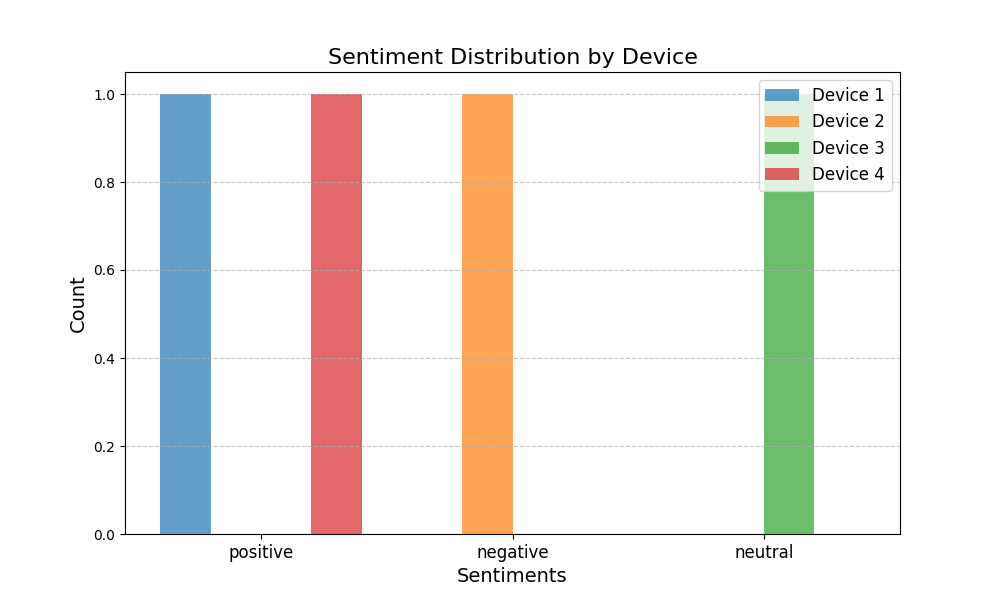
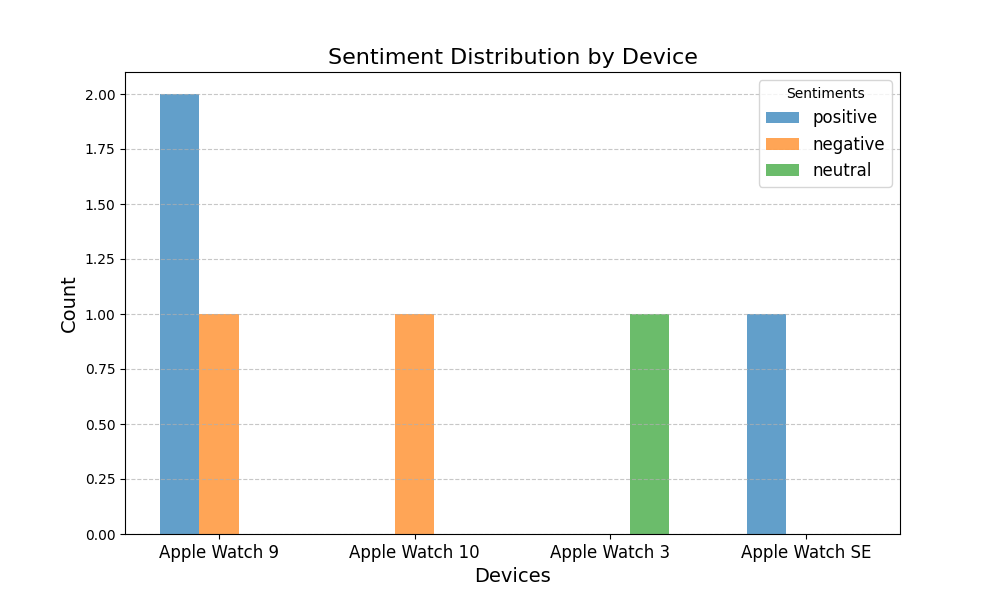
updating code for the graph, pushing new graph, adding readme file

diff --git a/Project3.py b/Project3.py
@@ -102,48 +102,48 @@ class HuggingFaceChat:
 
 def plot_sentiment_distribution(device_sentiments, output_path=None):
     """
-    Create a bar graph showing the distribution of sentiments.
+    Create a grouped bar graph showing the sentiment distribution across devices.
 
     Args:
-        sentiments (list): A list of sentiment labels (e.g., "positive", "negative", "neutral").
+        device_sentiments (dict): A dictionary where keys are device names and values are lists of sentiment labels.
         output_path (str, optional): Path to save the plot. If None, the plot is displayed.
     """
-    #Categories
+    # Sentiment categories
     categories = ["positive", "negative", "neutral"]
 
-    #Get data ready to plot
+    # Prepare data for plotting
     device_labels = list(device_sentiments.keys())
-    sentiment_count = [
-        [Counter(device_sentiments[device]).get(category, 0) for category in categories]
-        for device in device_labels
+    sentiment_counts = [
+        [Counter(device_sentiments[device]).get(category, 0) for device in device_labels]
+        for category in categories
     ]
 
-    #Bar position
-    x = np.arange(len(categories))
+    # Bar positions
+    x = np.arange(len(device_labels))
     bar_width = 0.2
 
-    #Plot the data
-    plt.figure(figsize = (10, 6))
-    for i, counts in enumerate(sentiment_count):
+    # Plot the data
+    plt.figure(figsize=(10, 6))
+    for i, counts in enumerate(sentiment_counts):
         plt.bar(
             x + i * bar_width,
             counts,
-            width = bar_width, 
-            label = device_labels[i],
-            alpha = 0.7,
+            width=bar_width,
+            label=categories[i],  # Sentiment as the legend label
+            alpha=0.7,
         )
 
-    #configure the plot
-    plt.title("Sentiment Distribution by Device", fontsize = 16)
-    plt.xlabel("Sentiments", fontsize = 14)
-    plt.ylabel("Count", fontsize = 14)
-    plt.xticks(x + bar_width * (len(device_labels) - 1) / 2, categories, fontsize = 12)
-    plt.legend(fontsize = 12)
-    plt.grid(axis = "y", linestyle = "--", alpha = 0.7)
+    # Configure the plot
+    plt.title("Sentiment Distribution by Device", fontsize=16)
+    plt.xlabel("Devices", fontsize=14)
+    plt.ylabel("Count", fontsize=14)
+    plt.xticks(x + bar_width, device_labels, fontsize=12)  # X-axis labels are devices
+    plt.legend(title="Sentiments", fontsize=12)
+    plt.grid(axis="y", linestyle="--", alpha=0.7)
 
-    #Save or display the graph
+    # Save or display the graph
     if output_path:
-        plt.savefig(output_path, format = "png")
+        plt.savefig(output_path, format="png")
         print(f"Grouped bar graph saved to {output_path}")
     else:
         plt.show()
@@ -163,10 +163,10 @@ if __name__ == "__main__":
 
     #Device names
     device_sentiments = {
-        "Device 1": ["positive"],
-        "Device 2": ["negative"],
-        "Device 3": ["neutral"],
-        "Device 4": ["positive"]
+        "Apple Watch 9": ["positive", "negative", "positive"],
+        "Apple Watch 10": ["negative"],
+        "Apple Watch 3": ["neutral"],
+        "Apple Watch SE": ["positive"]
     }
 
     #Function call to plot data
